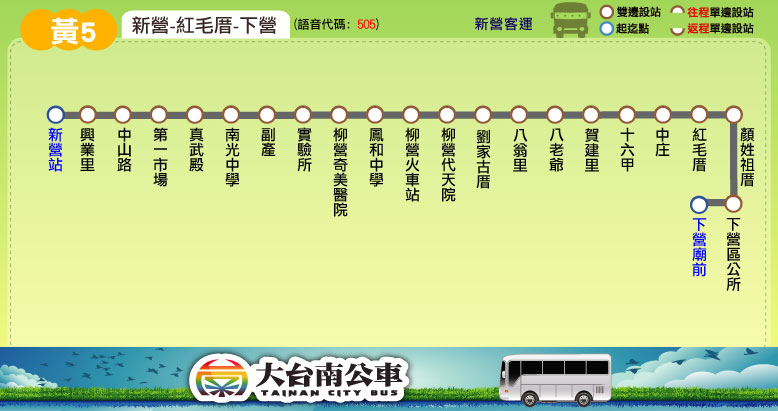
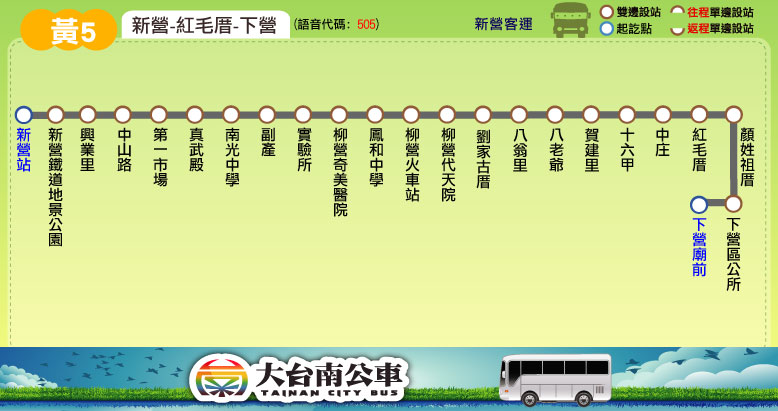
更新時刻表：黃幹線、黃5、黃10；新增站位：黃5(增「新營鐵道地景公園」)

diff --git a/route/fare_and_time/yellow.js b/route/fare_and_time/yellow.js
@@ -33,19 +33,25 @@ yellow_fare = [
 // format = [time at the start stop] or
 // [time, other] or
 // [time, start_stop, end_stop, other]
-yellow_main_stop_name = ["白河","蘭花園區","新營","柳營<br />奇美醫院","柳營<br />火車站","麻豆寮","下營<br />區公所","一商前","麻豆<br />轉運站"];
+yellow_main_stop_name = ["白河站","烏樹林","新營站","柳營<br />奇美醫院","柳營<br />火車站","麻豆寮","下營<br />區公所","一商前","麻豆<br />轉運站"];
 yellow_main_stop_time_consume = [0, 9, 25, 33, 36, 46, 53, 71, 80];
-yellow_important_stop = [0, 2, 4, 8]; // 白河, 新營, 柳營火車站, 麻豆轉運站
-var start_stop = 0; // 白河
-var hsinyin = 2; // 新營
+yellow_important_stop = [0, 2, 4, 8]; // 白河站, 新營站, 柳營火車站, 麻豆轉運站
+var Baihe  = 0; // 白河站
+var Wushulin = 1; // 烏樹林
+var hsinyin = 2; // 新營站
 var chimei = 3; // 柳營奇美醫院
-yellow_time_go = [["06:00",['L']],["06:20",start_stop,hsinyin,['L']],["06:30",['L']],["06:45",start_stop,chimei,[[start_stop+1,2,hsinyin,13]]],["07:15",start_stop,hsinyin,[[start_stop+1,2,hsinyin,3]]],["07:30",['L']],["07:45",start_stop,hsinyin],
-["08:00",start_stop,hsinyin],["08:30"],["08:50",start_stop,hsinyin,['L']],["09:10",start_stop,hsinyin,['L']],["09:30"],["10:00",start_stop,hsinyin],["10:30",['L']],["11:00",start_stop,hsinyin,['L']],["11:30",['L']],["12:00",start_stop,hsinyin],
-["12:30",['L']],["13:00",start_stop,hsinyin],["13:30",['L']],["14:00",start_stop,hsinyin,['L']],["14:30"],["15:00",start_stop,hsinyin,['L']],["15:20",start_stop,hsinyin,['H']],["15:30"],["16:00",start_stop,hsinyin,['繞',[start_stop+1,2,hsinyin,3]]],["16:30",['<span style="color: red;">L</span>繞']],
-["16:55",start_stop,hsinyin,['<span style="color: red;">L</span>繞',[start_stop+1,2,hsinyin,3]]],["17:30",['<span style="color: red;">L</span>繞']],["18:00",['L']],["18:15",start_stop,hsinyin],["18:30",start_stop,hsinyin],["18:45",start_stop,hsinyin],["19:00"],["20:00"]
+var TRA_Liouying = 4; // 柳營火車站
+var Madouliao = 5; // 麻豆寮
+var Siaying_District_Office = 6; // 下營區公所
+var Yishangcian = 7; // 一商前
+var Madou_Bus_Station = 8; // 麻豆轉運站
+yellow_time_go = [["06:00",['L',[Wushulin,-2,hsinyin,1,chimei,1,Madou_Bus_Station,5]]],["06:20",Baihe,hsinyin,['L',[Wushulin,-2,hsinyin,2]]],["06:30",['L',[Wushulin,-2,hsinyin,2,chimei,3,Siaying_District_Office,1,Madou_Bus_Station,6]]],["06:45",Baihe,chimei,[[Wushulin,-2,hsinyin,7,chimei,2]]],["07:15",Baihe,hsinyin,[[Wushulin,-2,hsinyin,7]]],["07:30",['L',[Wushulin,-2,hsinyin,2,chimei,3,Siaying_District_Office,1,Madou_Bus_Station,6]]],["07:45",Baihe,hsinyin,[[Wushulin,-2,hsinyin,2]]],
+["08:00",Baihe,hsinyin,[[Wushulin,-2,hsinyin,2]]],["08:30"],["08:50",Baihe,hsinyin,['L',[Wushulin,-2,hsinyin,2]]],["09:20",Baihe,hsinyin,['L',[Wushulin,-2,hsinyin,7]]],["09:30"],["09:45",Baihe,hsinyin,[[Wushulin,-2,hsinyin,2]]],["10:00",Baihe,hsinyin,[[Wushulin,-2,hsinyin,2]]],["10:30",['L',[Wushulin,-2,hsinyin,2,chimei,1,Siaying_District_Office,-1,Madou_Bus_Station,10]]],["11:00",Baihe,hsinyin,['L',[Wushulin,-2,hsinyin,2]]],["11:30",['L',[Wushulin,-2,hsinyin,2,chimei,1,Siaying_District_Office,-1,Madou_Bus_Station,10]]],["12:00",Baihe,hsinyin,[[Wushulin,-2,hsinyin,2]]],
+["12:30",['L',[Wushulin,-2,hsinyin,2,chimei,1,Siaying_District_Office,-1,Madou_Bus_Station,10]]],["13:00",Baihe,hsinyin,[[Wushulin,-2,hsinyin,2]]],["13:30",['L',[Wushulin,-2,hsinyin,2,chimei,1,Siaying_District_Office,-1,Madou_Bus_Station,10]]],["14:00",Baihe,hsinyin,['L',[Wushulin,-2,hsinyin,2]]],["14:30"],["15:00",Baihe,hsinyin,['L',[Wushulin,-2,hsinyin,2]]],["15:20",Baihe,hsinyin,['H',[Wushulin,-2,hsinyin,2]]],["15:30"],["16:00",Baihe,hsinyin,['繞',[Wushulin,1,hsinyin,4]]],["16:30",['<span style="color: red;">L</span>繞',[hsinyin,3,chimei,3,Madouliao,1,Siaying_District_Office,3,Yishangcian,1,Madou_Bus_Station,4]]],
+["16:55",Baihe,hsinyin,['<span style="color: red;">L</span>繞',[Wushulin,1,hsinyin,4]]],["17:30",['<span style="color: red;">L</span>繞',[hsinyin,3,chimei,2,Madouliao,1,Siaying_District_Office,2,Yishangcian,-1,Madou_Bus_Station,8]]],["18:00",['L',[Wushulin,-2,hsinyin,2,chimei,3,Madouliao,-1,Siaying_District_Office,-2,Yishangcian,-3,Madou_Bus_Station,13]]],["18:15",Baihe,hsinyin,[[Wushulin,-2,hsinyin,2]]],["18:30",Baihe,hsinyin,[[Wushulin,-2,hsinyin,2]]],["18:45",Baihe,hsinyin,[[Wushulin,-2,hsinyin,2]]],["19:00"],["20:00"]
 ];
-yellow_time_return = [["05:50",hsinyin,start_stop],["06:10",hsinyin,start_stop],["06:35",hsinyin,start_stop,['L']],["06:50",hsinyin,start_stop],["06:00",['繞']],["07:15",hsinyin,start_stop,['<span style="color: red;">L</span>繞',[hsinyin-1,3,start_stop,2]]],["07:25",hsinyin,start_stop,['H']],["06:30",[[hsinyin,5,hsinyin-1,-5]]],["07:55",hsinyin,start_stop],
-["07:30",['L',[hsinyin,5,hsinyin-1,-5]]],["08:55",hsinyin,start_stop],["08:30",['L',[hsinyin,5,hsinyin-1,-5]]],["09:55",hsinyin,start_stop,['L']],["09:30",['L',[hsinyin,5,hsinyin-1,-5]]],["10:55",hsinyin,start_stop],["10:30",['L',[hsinyin,5,hsinyin-1,-5]]],["11:55",hsinyin,start_stop],["11:30",[[hsinyin,5,hsinyin-1,-5]]],["13:00",hsinyin,start_stop,['L']],
-["12:30",[[hsinyin,5,hsinyin-1,-5]]],["13:55",hsinyin,start_stop],["13:30",['L',[hsinyin,5,hsinyin-1,-5]]],["14:55",hsinyin,start_stop,['L']],["14:30",['L',[hsinyin,5,hsinyin-1,-5]]],["15:55",hsinyin,start_stop,['L']],["16:10",hsinyin,start_stop],["16:20",hsinyin,start_stop],["15:30",['L',[hsinyin,5,hsinyin-1,-5]]],["17:00",hsinyin,start_stop,[[hsinyin-1,3,start_stop,2]]],["16:40"],
-["17:40",hsinyin,start_stop,[[hsinyin-1,3,start_stop,2]]],["17:30",[[hsinyin,5,hsinyin-1,-5]]],["18:20",['L',[hsinyin,5,hsinyin-1,-5]]],["19:10",['L',[hsinyin,5,hsinyin-1,-5]]],["20:00",['L']]
+yellow_time_return = [["05:50",hsinyin,Baihe,[[Wushulin,-1,Baihe,1]]],["06:10",hsinyin,Baihe],["06:35",hsinyin,Baihe,['L']],["06:50",hsinyin,Baihe],["06:00",['繞']],["07:15",hsinyin,Baihe,['<span style="color: red;">L</span>繞',[hsinyin-1,3,Baihe,2]]],["07:25",hsinyin,Baihe,['H']],["06:30",[[hsinyin,5,Baihe,-5]]],["07:55",hsinyin,Baihe],
+["07:30",['L',[Yishangcian,1,Siaying_District_Office,-1,TRA_Liouying,-1,hsinyin,9,Wushulin,1,Baihe,-4]]],["08:55",hsinyin,Baihe],["08:30",['L',[Yishangcian,1,Siaying_District_Office,-1,TRA_Liouying,-1,hsinyin,9,Wushulin,1,Baihe,-4]]],["09:55",hsinyin,Baihe,['L']],["10:20",hsinyin,Baihe],["09:30",['L',[Yishangcian,1,Siaying_District_Office,-1,TRA_Liouying,-1,hsinyin,8,Wushulin,-3,Baihe,1]]],["10:55",hsinyin,Baihe],["10:30",['L',[Yishangcian,1,Siaying_District_Office,-1,TRA_Liouying,-1,hsinyin,8,Wushulin,-3,Baihe,1]]],["11:55",hsinyin,Baihe],["11:30",[[hsinyin,5,hsinyin-1,-5]]],["13:00",hsinyin,Baihe,['L']],
+["12:30",[[hsinyin,5,hsinyin-1,-5]]],["13:55",hsinyin,Baihe],["13:30",['L',[Yishangcian,1,Siaying_District_Office,-1,TRA_Liouying,-1,hsinyin,8,Wushulin,-3,Baihe,1]]],["14:55",hsinyin,Baihe,['L']],["14:30",['L',[Yishangcian,1,Siaying_District_Office,-1,TRA_Liouying,-1,hsinyin,8,Wushulin,-3,Baihe,1]]],["15:55",hsinyin,Baihe,['L']],["16:10",hsinyin,Baihe],["16:20",hsinyin,Baihe],["15:30",['L',[Yishangcian,1,TRA_Liouying,-1,hsinyin,9,Wushulin,1]]],["17:00",hsinyin,Baihe,[[hsinyin-1,3,Baihe,2]]],["16:40"],
+["17:40",hsinyin,Baihe,[[hsinyin-1,3,Baihe,2]]],["17:30",[[hsinyin,5,hsinyin-1,-5]]],["18:20",['L',[Yishangcian,1,Siaying_District_Office,-1,TRA_Liouying,-1,hsinyin,8,Wushulin,-3,Baihe,1]]],["19:10",['L',[Yishangcian,1,Siaying_District_Office,-1,Madouliao,-1,TRA_Liouying,-1,hsinyin,5,Wushulin,-3]]],["20:00",['L',[Yishangcian,1,Siaying_District_Office,-3,Madouliao,-1,TRA_Liouying,-1,hsinyin,2,Wushulin,-2,Baihe,4]]]
 ];

diff --git a/route/fare_and_time/yellow_5.js b/route/fare_and_time/yellow_5.js
@@ -1,10 +1,10 @@
 yellow_5_interval_name = ["新營","副產","柳營<br />火車站","八老爺","中庄","下營公所"];
-yellow_5_interval_stop = [ // 2017.01.07 checked
-["新營站","興業里","中山路","第一市場","真武殿","南光中學"], // 新營
+yellow_5_interval_stop = [ // 2018.11.18 checked
+["新營站","新營鐵道地景公園","興業里","中山路","第一市場","真武殿","南光中學"], // 新營
 ["副產","實驗所"], // 副產
-["柳營奇美醫院","鳳和中學","柳營火車站","柳營代天院","劉家古厝"], // 柳營火車站
-["八翁里","八老爺","賀建里"], // 八老爺
-["十六甲","中庄"], // 中庄
+["柳營奇美醫院","鳳和中學","柳營火車站","柳營代天院"], // 柳營火車站
+["劉家古厝","八翁里","八老爺"], // 八老爺
+["賀建里","十六甲","中庄"], // 中庄
 ["紅毛厝","顏姓祖厝","下營區公所","下營廟前"] // 下營
 ];
 yellow_5_fare = [
@@ -18,8 +18,12 @@ yellow_5_fare = [
 // format = [time at the start stop] or
 // [time, other] or
 // [time, start_stop, end_stop, other]
-yellow_5_main_stop_name = ["新營","柳營<br />火車站","八老爺","紅毛厝","下營<br />區公所","下營廟前"];
+yellow_5_main_stop_name = ["新營站","柳營<br />火車站","八老爺","紅毛厝","下營<br />區公所","下營廟前"];
 yellow_5_main_stop_time_consume = [0, 14, 18, 27, 29, 30];
-yellow_5_important_stop = [0, 1, 5]; // 新營, 柳營火車站, 下營廟前
-yellow_5_time_go = [["08:20"],["09:30",['L']],["12:15",['H']],["16:00",['L']],["17:15",['H']]];
-yellow_5_time_return = [["09:00"],["12:30",['L']],["13:00",['H']],["16:35",['L',[2,1,1,1,0,3]]],["18:00",['H']]];
+yellow_5_important_stop = [0, 1, 5]; // 新營站, 柳營火車站, 下營廟前
+var Sinying = 0; // 新營站
+var TRA_Liouying = 1; // 柳營火車站
+var Balaoye = 2; // 八老爺
+var Hongmaocuo = 3; // 紅毛厝
+yellow_5_time_go = [["08:20"],["09:30",['L']],["12:15"],["16:00",['L']],["17:15",['H']]];
+yellow_5_time_return = [["09:00",[[Hongmaocuo,1,Sinying,-1]]],["12:30",['L',[Hongmaocuo,1,TRA_Liouying,1,Sinying,-2]]],["13:00",[[Hongmaocuo,1,Balaoye,-1]]],["16:35",['L',[Hongmaocuo,1,TRA_Liouying,1,Sinying,3]]],["18:00",['H',[Hongmaocuo,1,Balaoye,-2,Sinying,1]]]];

diff --git a/route/fare_and_time/yellow_10.js b/route/fare_and_time/yellow_10.js
@@ -34,11 +34,12 @@ yellow_10_fare = [
 // format = [time at the start stop] or
 // [time, other] or
 // [time, start_stop, end_stop, other]
-yellow_10_main_stop_name = ["泰安宮","後壁<br />火車站","土溝里","白河國中","白河","大林","台影<br />文化城","六重溪","鎮安宮"];
+yellow_10_main_stop_name = ["泰安宮","後壁<br />火車站","土溝里","白河國中","白河站","大林","台影<br />文化城","六重溪","鎮安宮"];
 yellow_10_main_stop_time_consume = [0, 5, 13, 20, 25, 33, 40, 45, 50];
-yellow_10_important_stop = [1, 4, 6]; // 後壁火車站, 白河, 台影文化城
-skip_stop = 3; // 白河國中
-stop_1 = 4; // 白河
-end_stop = 8; // 鎮安宮
-yellow_10_time_go = [["07:20",[skip_stop]],["10:00",[skip_stop]],["13:30",[skip_stop]],["15:40",[skip_stop]],["17:00",skip_stop,end_stop],["17:25",[[skip_stop,5]]]];
-yellow_10_time_return = [["06:15",[[skip_stop-1,5]]],["08:15",[skip_stop]],["11:00",[skip_stop]],["14:30",[skip_stop]],["16:30",[skip_stop]],["17:30",end_stop,stop_1]];
+yellow_10_important_stop = [1, 4, 8]; // 後壁火車站, 白河站, 鎮安宮
+var Houbi_Train_Station = 1; // 後壁火車站
+var Baihe_Junior_High_School = 3; // 白河國中
+var Baihe = 4; // 白河站
+var Jhen_an_Temple = 8; // 鎮安宮
+yellow_10_time_go = [["07:30",[Baihe_Junior_High_School]],["10:00",[Baihe_Junior_High_School]],["13:40",[Baihe_Junior_High_School]],["15:40",[Baihe_Junior_High_School]],["16:20",Houbi_Train_Station,Baihe,[Baihe_Junior_High_School]],["17:00",Baihe_Junior_High_School,Jhen_an_Temple],["17:25",[[Baihe_Junior_High_School,5]]]];
+yellow_10_time_return = [["06:15",[[Baihe_Junior_High_School-1,5]]],["08:20",[Baihe_Junior_High_School]],["10:55",[Baihe_Junior_High_School]],["14:30",[Baihe_Junior_High_School]],["15:55",Baihe,Houbi_Train_Station,[Baihe_Junior_High_School]],["16:30",[Baihe_Junior_High_School]],["17:30",Jhen_an_Temple,Baihe]];
